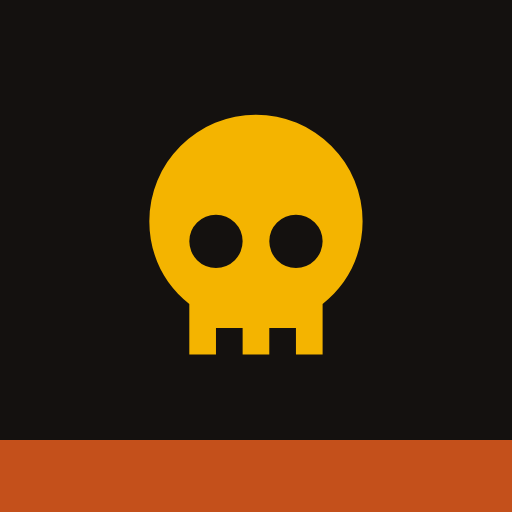
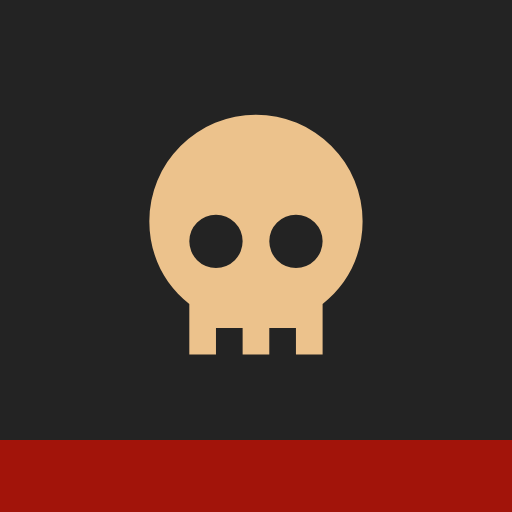
Ajustar el tema a la paleta y tipografías de la web oficial

Changed region(s): [[0.2812, 0.2188, 0.7188, 0.7188], [0.0, 0.8438, 1.0, 1.0]]

diff --git a/src/Punkapocalyptic.UI/wwwroot/css/punk-theme.css b/src/Punkapocalyptic.UI/wwwroot/css/punk-theme.css
@@ -1,45 +1,46 @@
 /* ==========================================================================
-   Tema Punka: chatarra, óxido y amarillo de peligro.
+   Tema Punka, basado en la paleta de punkapocalyptic.com:
+   negro, rojo sangre, arena y blanco.
    Todos los colores y tipografías salen de estas variables; las secciones
    nuevas deben reutilizarlas en vez de definir valores propios.
    ========================================================================== */
 
 :root {
     /* Superficies */
-    --punk-bg: #14110f;
-    --punk-bg-texture: #1a1613;
-    --punk-surface: #211c18;
-    --punk-surface-2: #2c2520;
-    --punk-border: #463a30;
+    --punk-bg: #111111;
+    --punk-bar: #232323;
+    --punk-surface: #1c1c1c;
+    --punk-surface-2: #2a2a2a;
+    --punk-border: #3a3a3a;
 
     /* Texto */
-    --punk-text: #efe6d8;
-    --punk-text-muted: #a9998a;
-    --punk-text-on-accent: #14110f;
+    --punk-text: #ffffff;
+    --punk-text-muted: #b3b3b3;
+    --punk-text-on-accent: #232323;
 
     /* Acentos */
-    --punk-accent: #f4b400;       /* amarillo de peligro */
-    --punk-accent-strong: #ffcc33;
-    --punk-rust: #c4501b;         /* óxido */
-    --punk-blood: #b3261e;
-    --punk-toxic: #8fbf3a;        /* radiación */
-    --punk-steel: #6f7d86;
+    --punk-accent: #ecc28c;       /* arena */
+    --punk-accent-strong: #dfa457;
+    --punk-rust: #a2140a;         /* rojo sangre */
+    --punk-blood: #a2140a;
+    --punk-toxic: #8fbf3a;
+    --punk-steel: #747474;
 
     /* Estados */
-    --punk-danger: var(--punk-blood);
+    --punk-danger: #c62d22;
     --punk-warning: var(--punk-accent);
     --punk-success: var(--punk-toxic);
 
     /* Tipografía */
-    --punk-font-display: "Anton", "Impact", "Haettenschweiler", "Arial Narrow Bold", sans-serif;
-    --punk-font-body: "Roboto Condensed", "Arial Narrow", "Helvetica Neue", Arial, sans-serif;
+    --punk-font-display: "Black Ops One", "Impact", "Arial Narrow Bold", sans-serif;
+    --punk-font-heading: "Wellfleet", Georgia, serif;
+    --punk-font-body: "Sora", "Segoe UI", Arial, sans-serif;
 
     /* Forma */
-    --punk-radius: 4px;
+    --punk-radius: 3px;
     --punk-gap: 12px;
     --punk-tabbar-height: 64px;
-    --punk-shadow: 0 2px 0 #000, 0 6px 18px rgba(0, 0, 0, .45);
-    --punk-hazard: repeating-linear-gradient(-45deg, var(--punk-accent) 0 10px, #14110f 10px 20px);
+    --punk-shadow: 0 6px 18px rgba(0, 0, 0, .5);
 
     color-scheme: dark;
 }
@@ -52,10 +53,6 @@ html, body {
     margin: 0;
     min-height: 100%;
     background-color: var(--punk-bg);
-    background-image:
-        radial-gradient(circle at 20% 10%, rgba(196, 80, 27, .10), transparent 45%),
-        radial-gradient(circle at 85% 80%, rgba(143, 191, 58, .06), transparent 40%);
-    background-attachment: fixed;
     color: var(--punk-text);
     font-family: var(--punk-font-body);
     font-size: 16px;
@@ -64,9 +61,9 @@ html, body {
 }
 
 h1, h2, h3 {
-    font-family: var(--punk-font-display);
+    font-family: var(--punk-font-heading);
     font-weight: 400;
-    letter-spacing: .02em;
+    letter-spacing: 1.8px;
     text-transform: uppercase;
     line-height: 1.05;
     margin: 0;
@@ -97,23 +94,22 @@ a { color: var(--punk-accent); }
     display: flex; align-items: center;
     padding: 10px 16px calc(10px + 4px);
     padding-top: max(10px, env(safe-area-inset-top));
-    background: #0e0c0a;
-    border-bottom: 4px solid transparent;
-    border-image: var(--punk-hazard) 4;
+    background: var(--punk-bar);
+    border-bottom: 3px solid var(--punk-rust);
 }
 
 .punk-brand {
     display: flex; align-items: baseline; gap: 8px;
     color: var(--punk-text); text-decoration: none;
 }
-.punk-brand__mark { color: var(--punk-accent); width: 1.6rem; height: 1.6rem; align-self: center; }
+.punk-brand__mark { color: var(--punk-rust); width: 1.6rem; height: 1.6rem; align-self: center; }
 .punk-brand__name {
     font-family: var(--punk-font-display); font-size: 1.7rem; text-transform: uppercase;
-    color: var(--punk-accent); text-shadow: 2px 2px 0 var(--punk-rust);
+    color: var(--punk-text);
 }
 .punk-brand__sub {
-    font-family: var(--punk-font-display); font-size: 1rem; text-transform: uppercase;
-    color: var(--punk-text-muted); letter-spacing: .12em;
+    font-family: var(--punk-font-heading); font-size: 1rem; text-transform: uppercase;
+    color: var(--punk-accent); letter-spacing: 1.8px;
 }
 
 .punk-main {
@@ -128,14 +124,14 @@ a { color: var(--punk-accent); }
     display: grid; grid-template-columns: repeat(4, 1fr);
     height: calc(var(--punk-tabbar-height) + env(safe-area-inset-bottom));
     padding-bottom: env(safe-area-inset-bottom);
-    background: #0e0c0a;
+    background: var(--punk-bar);
     border-top: 2px solid var(--punk-border);
 }
 .punk-tab {
     position: relative;
     display: flex; flex-direction: column; align-items: center; justify-content: center; gap: 2px;
     color: var(--punk-text-muted); text-decoration: none;
-    font-family: var(--punk-font-display); text-transform: uppercase; font-size: .85rem; letter-spacing: .05em;
+    font-family: var(--punk-font-heading); text-transform: uppercase; font-size: .85rem; letter-spacing: 1.2px;
 }
 .punk-tab .icon { width: 1.5rem; height: 1.5rem; }
 .punk-tab.active { color: var(--punk-accent); }
@@ -153,7 +149,7 @@ a { color: var(--punk-accent); }
     margin-bottom: 16px;
 }
 .page-header__title { display: flex; flex-direction: column; gap: 4px; min-width: 0; flex: 1; }
-.page-title { font-size: clamp(1.8rem, 6vw, 2.6rem); flex: 1; overflow-wrap: anywhere; }
+.page-title { font-family: var(--punk-font-display); letter-spacing: .02em; font-size: clamp(1.8rem, 6vw, 2.6rem); flex: 1; overflow-wrap: anywhere; }
 .section-title {
     font-size: 1.25rem; color: var(--punk-accent);
     margin: 20px 0 10px;
@@ -169,7 +165,7 @@ a { color: var(--punk-accent); }
     min-height: 44px; padding: 8px 16px;
     border: 2px solid var(--punk-border); border-radius: var(--punk-radius);
     background: var(--punk-surface-2); color: var(--punk-text);
-    font-family: var(--punk-font-display); font-size: 1rem; letter-spacing: .04em; text-transform: uppercase;
+    font-family: var(--punk-font-body); font-size: .9rem; font-weight: 500; letter-spacing: .02em; text-transform: uppercase;
     text-decoration: none; cursor: pointer;
     transition: transform .08s ease, background-color .15s ease;
 }
@@ -179,20 +175,19 @@ a { color: var(--punk-accent); }
     outline: 3px solid var(--punk-accent); outline-offset: 2px;
 }
 .btn--primary {
-    background: var(--punk-accent); border-color: #000; color: var(--punk-text-on-accent);
-    box-shadow: 3px 3px 0 var(--punk-rust);
+    background: var(--punk-accent); border-color: var(--punk-accent); color: var(--punk-text-on-accent);
 }
-.btn--primary:hover:not(:disabled) { background: var(--punk-accent-strong); }
-.btn--ghost { background: transparent; }
+.btn--primary:hover:not(:disabled) { background: var(--punk-accent-strong); border-color: var(--punk-accent-strong); }
+.btn--ghost { background: transparent; border-color: var(--punk-accent); color: var(--punk-accent); }
 .btn--ghost:hover:not(:disabled) { background: var(--punk-surface-2); }
-.btn--danger { background: var(--punk-danger); border-color: #000; color: #fff; }
-.btn--danger-text { color: #ff8a80; }
-.btn--icon { min-width: 44px; padding: 8px; background: transparent; }
+.btn--danger { background: var(--punk-danger); border-color: var(--punk-danger); color: #fff; }
+.btn--danger-text, .btn--ghost.btn--danger-text { color: #ff8a80; border-color: var(--punk-danger); }
+.btn--icon { min-width: 44px; padding: 8px; background: transparent; border-color: var(--punk-border); }
 
 .actions { display: flex; flex-wrap: wrap; gap: 10px; align-items: center; }
 .actions--sticky {
     position: sticky; bottom: calc(var(--punk-tabbar-height) + env(safe-area-inset-bottom) + 8px);
-    padding: 10px; background: rgba(14, 12, 10, .92); border: 2px solid var(--punk-border); border-radius: var(--punk-radius);
+    padding: 10px; background: rgba(17, 17, 17, .94); border: 2px solid var(--punk-border); border-radius: var(--punk-radius);
 }
 .toolbar { display: flex; flex-wrap: wrap; gap: 8px; align-items: center; margin-bottom: 8px; }
 .toolbar__info { flex: 1 1 100%; color: var(--punk-text-muted); }
@@ -228,7 +223,7 @@ a.card:active { transform: scale(.99); }
 }
 
 .band-card { border-left: 6px solid var(--punk-accent); }
-.band-card--rival { border-left-color: var(--punk-blood); }
+.band-card--rival { border-left-color: var(--punk-rust); }
 .band-card__head { display: flex; gap: 6px; flex-wrap: wrap; }
 .band-card__name { font-size: 1.6rem; margin: 8px 0; overflow-wrap: anywhere; }
 .band-card__portraits { display: flex; gap: 6px; min-height: 44px; }
@@ -244,7 +239,7 @@ a.card:active { transform: scale(.99); }
 .ammo {
     display: inline-flex; align-items: center; gap: 4px; align-self: flex-start;
     padding: 2px 8px; border-radius: 999px;
-    background: #3a2a10; color: var(--punk-accent); font-weight: 700;
+    background: #3b3024; color: var(--punk-accent); font-weight: 700;
 }
 
 /* Fila de atributos, estilo hoja de datos */
@@ -256,7 +251,7 @@ a.card:active { transform: scale(.99); }
 .stat-strip__cell + .stat-strip__cell { border-left: 2px solid #000; }
 .stat-strip dt {
     background: var(--punk-accent); color: var(--punk-text-on-accent);
-    font-family: var(--punk-font-display); font-size: .8rem; letter-spacing: .06em; padding: 2px 0;
+    font-family: var(--punk-font-heading); font-size: .8rem; letter-spacing: 1.2px; padding: 2px 0;
 }
 .stat-strip dd { margin: 0; padding: 4px 0; font-family: var(--punk-font-display); font-size: 1.4rem; }
 
@@ -265,10 +260,10 @@ a.card:active { transform: scale(.99); }
 .chip {
     display: inline-flex; align-items: center; gap: 4px; align-self: flex-start;
     padding: 2px 8px; border-radius: 2px;
-    font-family: var(--punk-font-display); font-size: .8rem; letter-spacing: .08em; text-transform: uppercase;
+    font-family: var(--punk-font-heading); font-size: .8rem; letter-spacing: 1.2px; text-transform: uppercase;
 }
 .chip--faction { background: var(--punk-rust); color: #fff; }
-.chip--rival { background: var(--punk-blood); color: #fff; }
+.chip--rival { background: #fff; color: var(--punk-rust); }
 
 .tags { display: flex; flex-wrap: wrap; gap: 6px; list-style: none; margin: 0; padding: 0; }
 .tag {
@@ -294,12 +289,12 @@ a.card:active { transform: scale(.99); }
 .field { display: flex; flex-direction: column; gap: 6px; border: 0; padding: 0; margin: 0; min-width: 0; }
 .field--narrow { max-width: 140px; }
 .field__label {
-    font-family: var(--punk-font-display); text-transform: uppercase; letter-spacing: .06em;
+    font-family: var(--punk-font-heading); text-transform: uppercase; letter-spacing: 1.2px;
     color: var(--punk-text-muted); font-size: .9rem; padding: 0;
 }
 .field__input {
     width: 100%; min-height: 44px; padding: 8px 12px;
-    background: #0e0c0a; color: var(--punk-text);
+    background: #0b0b0b; color: var(--punk-text);
     border: 2px solid var(--punk-border); border-radius: var(--punk-radius);
     font: inherit;
 }
@@ -314,17 +309,16 @@ textarea.field__input { resize: vertical; }
     min-height: 56px; padding: 8px;
     background: var(--punk-surface); color: var(--punk-text);
     border: 2px solid var(--punk-border); border-radius: var(--punk-radius);
-    font-family: var(--punk-font-display); font-size: 1.05rem; text-transform: uppercase; letter-spacing: .04em;
+    font-family: var(--punk-font-heading); font-size: 1.05rem; text-transform: uppercase; letter-spacing: 1.2px;
     cursor: pointer;
 }
 .faction-tile.is-selected {
-    background: var(--punk-accent); color: var(--punk-text-on-accent); border-color: #000;
-    box-shadow: 3px 3px 0 var(--punk-rust);
+    background: var(--punk-accent); color: var(--punk-text-on-accent); border-color: var(--punk-accent);
 }
 
 /* Contador con botones grandes para usar con el pulgar */
 .stepper { display: flex; align-items: center; justify-content: space-between; gap: 10px; }
-.stepper__label { font-family: var(--punk-font-display); text-transform: uppercase; letter-spacing: .06em; }
+.stepper__label { font-family: var(--punk-font-heading); text-transform: uppercase; letter-spacing: 1.2px; }
 .stepper__controls { display: flex; align-items: center; border: 2px solid #000; border-radius: var(--punk-radius); overflow: hidden; }
 .stepper__btn {
     width: 44px; height: 44px; border: 0;
@@ -344,7 +338,7 @@ textarea.field__input { resize: vertical; }
 .portrait {
     flex: none; overflow: hidden;
     display: flex; align-items: center; justify-content: center;
-    background: #0e0c0a; border: 2px solid #000; border-radius: var(--punk-radius);
+    background: #0b0b0b; border: 2px solid #000; border-radius: var(--punk-radius);
     box-shadow: 0 0 0 2px var(--punk-border);
 }
 .portrait img { width: 100%; height: 100%; object-fit: cover; }
@@ -377,7 +371,7 @@ textarea.field__input { resize: vertical; }
     background: var(--punk-surface-2); border-left: 4px solid var(--punk-steel); border-radius: var(--punk-radius);
 }
 .notice--warning { border-left-color: var(--punk-warning); }
-.notice--danger { border-left-color: var(--punk-danger); background: #2a1412; }
+.notice--danger { border-left-color: var(--punk-danger); background: #2a1210; }
 
 .punk-empty {
     display: flex; flex-direction: column; align-items: center; gap: 10px;
@@ -392,13 +386,13 @@ textarea.field__input { resize: vertical; }
 }
 .boot__title {
     font-family: var(--punk-font-display); font-size: 3rem; text-transform: uppercase;
-    color: var(--punk-accent); text-shadow: 3px 3px 0 var(--punk-rust);
+    color: var(--punk-text);
 }
 .boot__bar { width: 220px; height: 12px; border: 2px solid #000; background: var(--punk-surface-2); }
 .boot__bar span {
     display: block; height: 100%;
     width: var(--blazor-load-percentage, 0%);
-    background: var(--punk-hazard);
+    background: var(--punk-accent);
     transition: width .2s ease;
 }
 .loading-progress-text::after { content: var(--blazor-load-percentage-text, "Cargando"); color: var(--punk-text-muted); }
@@ -407,7 +401,7 @@ textarea.field__input { resize: vertical; }
     display: none;
     position: fixed; left: 0; right: 0; bottom: 0; z-index: 1000;
     padding: 12px 16px;
-    background: var(--punk-blood); color: #fff;
+    background: var(--punk-rust); color: #fff;
 }
 #blazor-error-ui .reload { color: #fff; font-weight: 700; margin-left: 8px; }
 #blazor-error-ui .dismiss { position: absolute; right: 16px; top: 10px; cursor: pointer; }

diff --git a/src/Punkapocalyptic.Web/wwwroot/index.html b/src/Punkapocalyptic.Web/wwwroot/index.html
@@ -4,7 +4,7 @@
 <head>
     <meta charset="utf-8" />
     <meta name="viewport" content="width=device-width, initial-scale=1.0, viewport-fit=cover" />
-    <meta name="theme-color" content="#14110f" />
+    <meta name="theme-color" content="#232323" />
     <meta name="description" content="Gestor de bandas para Punkapocalyptic" />
     <title>Punka Bandas</title>
     <base href="/" />
@@ -21,7 +21,7 @@
     <link rel="preload" id="webassembly" />
     <link rel="preconnect" href="https://fonts.googleapis.com" />
     <link rel="preconnect" href="https://fonts.gstatic.com" crossorigin />
-    <link href="https://fonts.googleapis.com/css2?family=Anton&family=Roboto+Condensed:wght@400;700&display=swap" rel="stylesheet" />
+    <link href="https://fonts.googleapis.com/css2?family=Black+Ops+One&family=Sora:wght@400;500;700&family=Wellfleet&display=swap" rel="stylesheet" />
     <link rel="stylesheet" href="_content/Punkapocalyptic.UI/css/punk-theme.css" />
     <link href="manifest.webmanifest" rel="manifest" />
     <link rel="icon" type="image/png" href="icon-192.png" />
